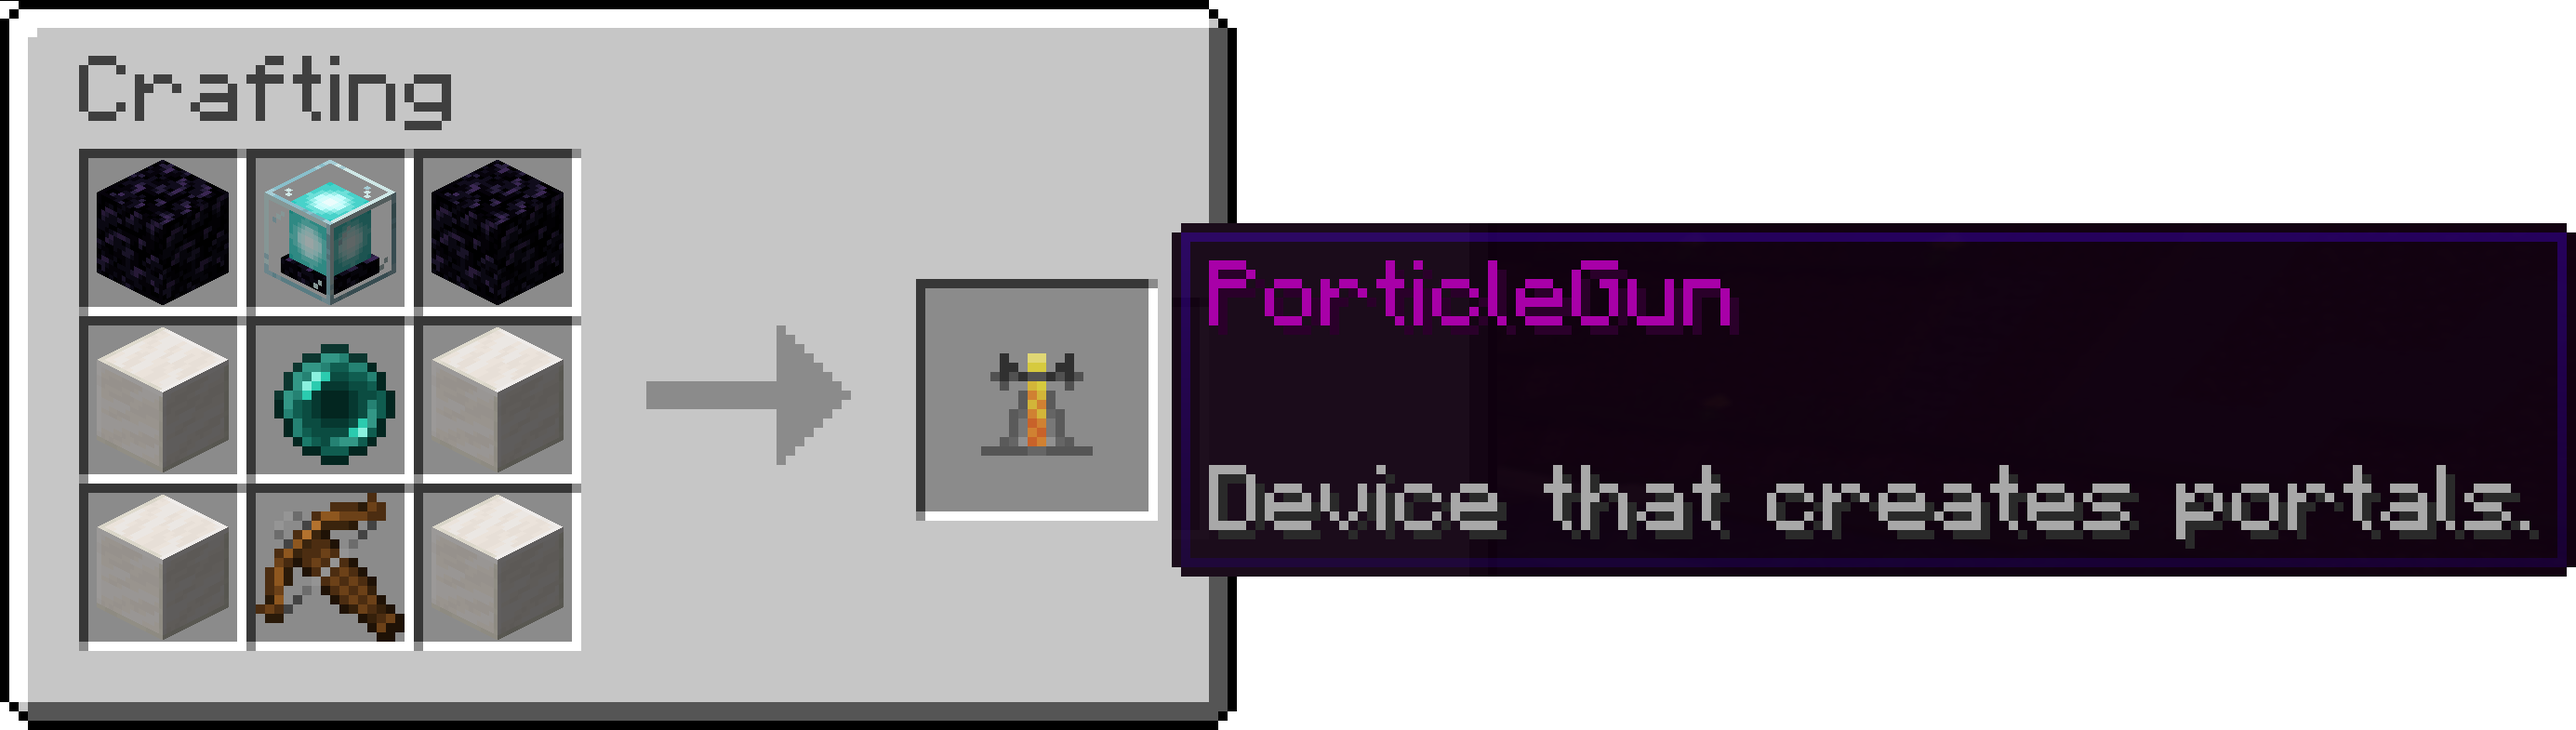
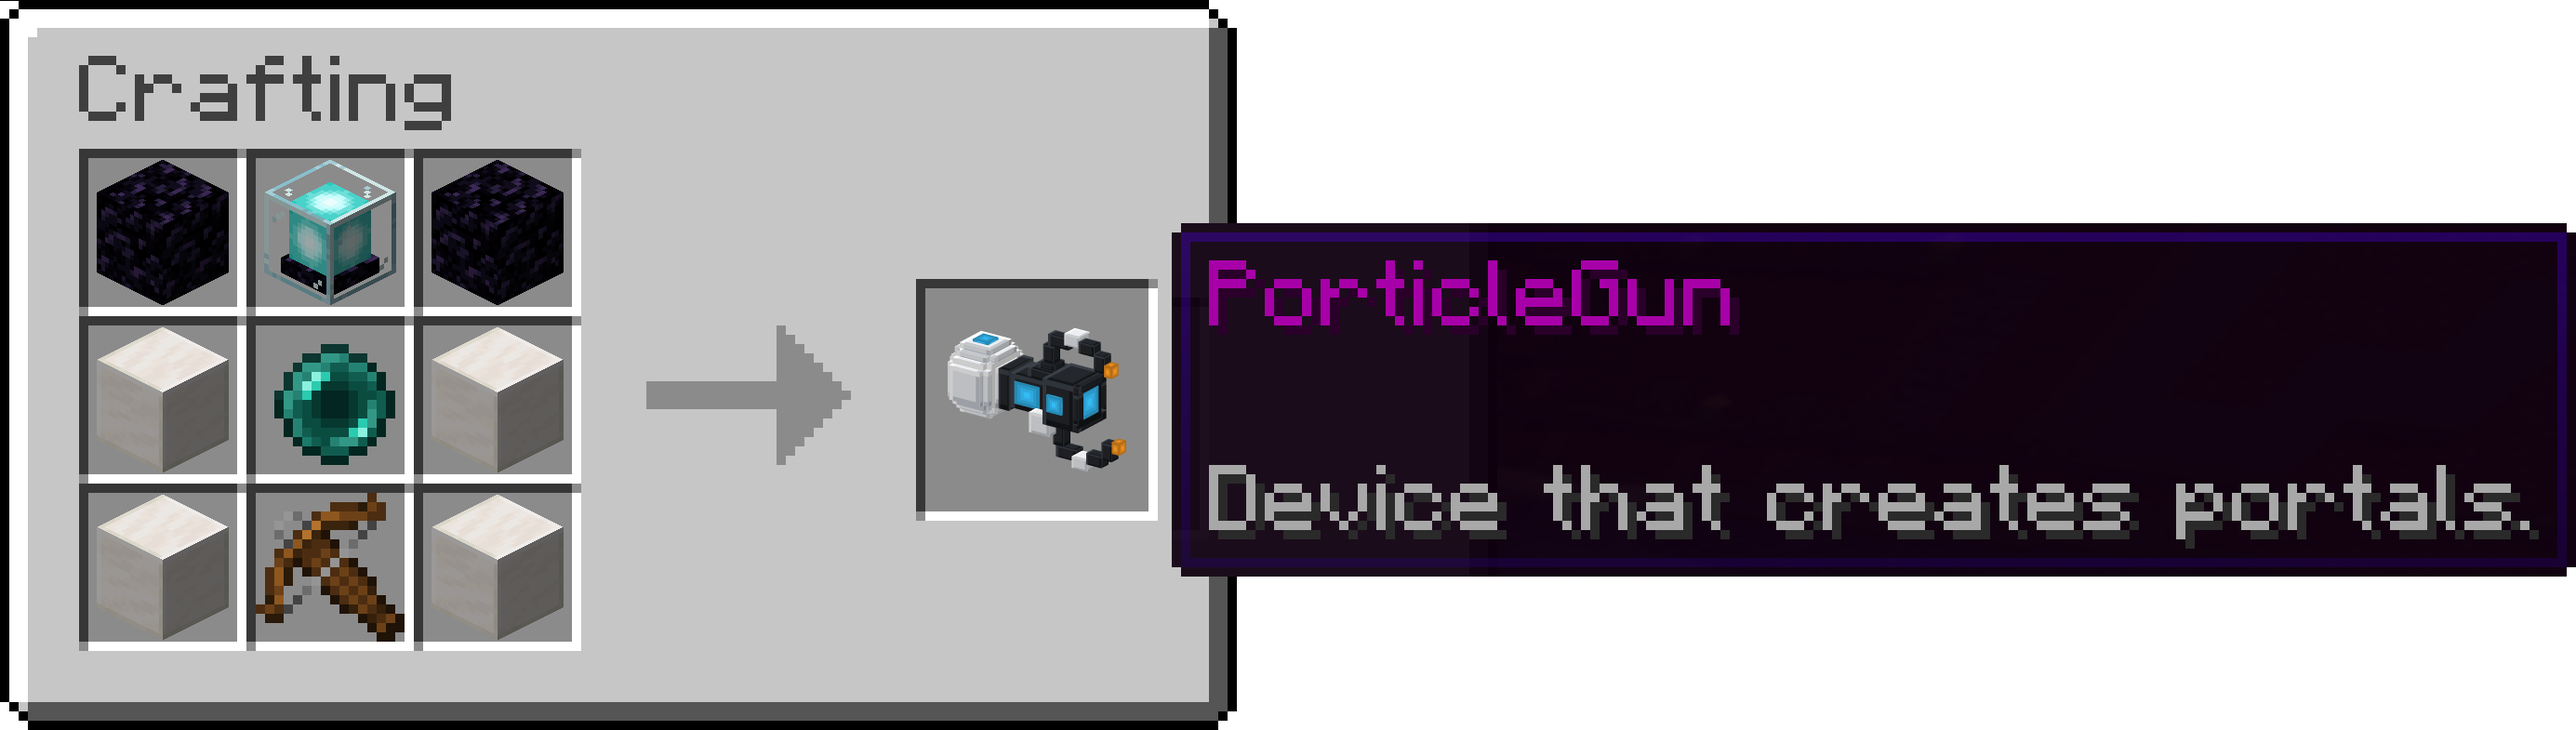
Point the 3D gun away from the player and show it in the recipe image
- rotate the first and third person poses by 180 degrees; players held the
  gun the wrong way round (Java and Bedrock, derived from the same values)
- bump the Bedrock pack version so clients reload it
- the crafting recipe image shows the 3D portal gun instead of a brewing stand

Changed region(s): [[0.3415, 0.4586, 0.4347, 0.642]]

diff --git a/scripts/generate_resourcepack.py b/scripts/generate_resourcepack.py
@@ -33,7 +33,7 @@ DEFAULT_TINTS = [0xFFA500, 0x0000AA]
 # Bedrock packs need stable UUIDs, never change them (bump the version instead)
 BEDROCK_HEADER_UUID = "6f2a1c3e-8b4d-4e7a-9c15-2d8f0b7e4a61"
 BEDROCK_MODULE_UUID = "a3d95b72-1e6c-4f08-b2a4-7c9e5d13f8b0"
-BEDROCK_VERSION = [1, 2, 0]
+BEDROCK_VERSION = [1, 3, 0]
 
 # --- texture atlas (32x32 px, one 8x8 tile per material) ------------------------------------------------------------
 TEXTURE_SIZE = 32
@@ -219,13 +219,14 @@ def region_uv16(name):
     return [x * scale, y * scale, (x + size) * scale, (y + size) * scale]
 
 
-# Display transforms. The barrel lies along +X like the tip of the vanilla handheld sword, so a y rotation of -90
-# points it forward. Bedrock animations are derived from these values.
+# Display transforms. The barrel lies along +X; in the hand slots a y rotation of +90 (right hand) / -90 (left hand)
+# points it away from the player (-90 made players hold it the wrong way round in 1.3.1). Bedrock animations are
+# derived from these values.
 DISPLAY = {
-    "firstperson_righthand": {"rotation": [0, -90, 0], "translation": [1.5, 2.5, 1.5], "scale": [0.42] * 3},
-    "firstperson_lefthand": {"rotation": [0, 90, 0], "translation": [1.5, 2.5, 1.5], "scale": [0.42] * 3},
-    "thirdperson_righthand": {"rotation": [0, -90, 0], "translation": [0, 3, 1], "scale": [0.38] * 3},
-    "thirdperson_lefthand": {"rotation": [0, 90, 0], "translation": [0, 3, 1], "scale": [0.38] * 3},
+    "firstperson_righthand": {"rotation": [0, 90, 0], "translation": [1.5, 2.5, 1.5], "scale": [0.42] * 3},
+    "firstperson_lefthand": {"rotation": [0, -90, 0], "translation": [1.5, 2.5, 1.5], "scale": [0.42] * 3},
+    "thirdperson_righthand": {"rotation": [0, 90, 0], "translation": [0, 3, 1], "scale": [0.38] * 3},
+    "thirdperson_lefthand": {"rotation": [0, -90, 0], "translation": [0, 3, 1], "scale": [0.38] * 3},
     "gui": {"rotation": [20, -35, 0], "translation": [0, 0, 0], "scale": [0.5] * 3},
     "ground": {"rotation": [0, 0, 0], "translation": [0, 2, 0], "scale": [0.3] * 3},
     "fixed": {"rotation": [0, 180, 0], "translation": [0, 0, 0], "scale": [0.5] * 3},

diff --git a/TODO.md b/TODO.md
@@ -3,7 +3,7 @@
 Befunde aus dem Code-Review. Status: `[ ]` offen · `[~]` in Arbeit · `[x]` erledigt · `[!]` gesperrt, nur nach Rücksprache.
 
 > **Regel:** Das Einstellungs-GUI (`SettingsHandler`, Dropper-Menü) bleibt genau so, wie es ist. Keine Änderung an Layout, Slots, Bedienung oder Optik ohne vorherige Diskussion mit dem User.
-> **Release:** [`v1.3.1`](https://github.com/nurkert/porticle-gun/releases/tag/v1.3.1) (2026-10-21). Damit werden die offenen „Du:“-Punkte (PG-14, PG-15, PG-16, PG-20) auf dem Server getestet.
+> **Release:** [`v1.3.2`](https://github.com/nurkert/porticle-gun/releases/tag/v1.3.2) (2026-10-21). Damit werden die offenen „Du:“-Punkte (PG-14, PG-15, PG-16, PG-20) auf dem Server getestet.
 
 Reihenfolge = Priorität. Unter jedem Punkt: Problem, Lösungsansatz, Notizen beim Abarbeiten.
 

diff --git a/CHANGELOG.md b/CHANGELOG.md
@@ -5,6 +5,14 @@ All notable changes to this project are documented here. The format follows
 
 ## [Unreleased]
 
+## [1.3.2] - 2026-10-21
+
+### Fixed
+- The 3D gun pointed at the player in first and third person (Java and Bedrock); it now points forward.
+
+### Changed
+- The crafting recipe image shows the 3D portal gun as the result.
+
 ## [1.3.1] - 2026-10-21
 
 ### Fixed
